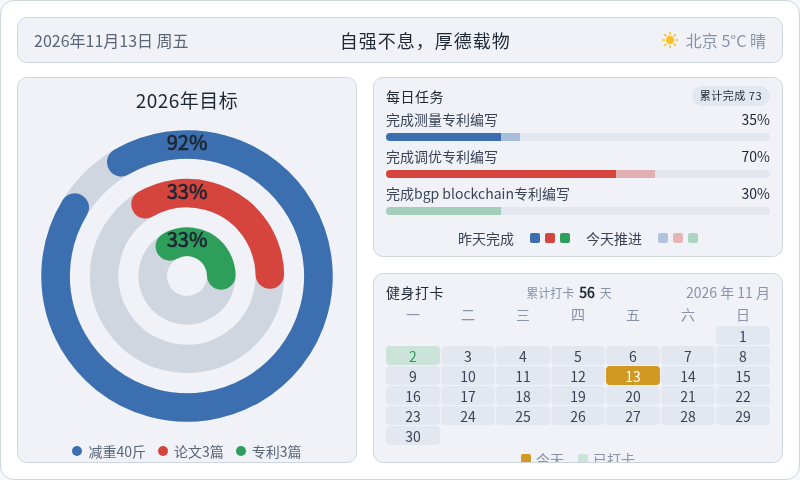
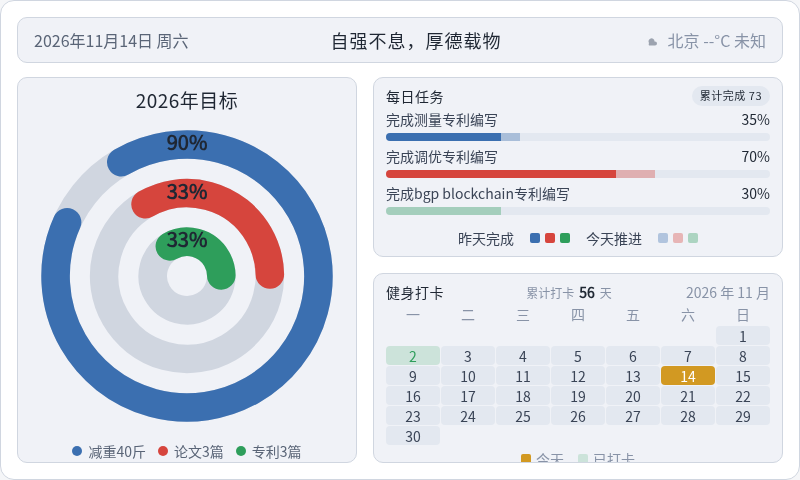
chore: 每日看板刷新 2026-11-14

diff --git a/output/dashboard/dashboard.html b/output/dashboard/dashboard.html
@@ -185,11 +185,11 @@
 <body>
   <div class="dash">
     <div class="topbar">
-      <div class="tb-date" id="tbDate">2026年11月13日 周五</div>
+      <div class="tb-date" id="tbDate">2026年11月14日 周六</div>
       <div class="tb-slogan">自强不息，厚德载物</div>
       <div class="tb-weather">
-        <svg width="16" height="16" viewBox="0 0 16 16" aria-hidden="true"><circle cx="8" cy="8" r="4" fill="#fbbf24"/><g stroke="#fbbf24" stroke-width="1.5" stroke-linecap="round"><line x1="8" y1="0.5" x2="8" y2="2.5"/><line x1="8" y1="13.5" x2="8" y2="15.5"/><line x1="0.5" y1="8" x2="2.5" y2="8"/><line x1="13.5" y1="8" x2="15.5" y2="8"/><line x1="2.5" y1="2.5" x2="3.9" y2="3.9"/><line x1="12.1" y1="12.1" x2="13.5" y2="13.5"/><line x1="13.5" y1="2.5" x2="12.1" y2="3.9"/><line x1="3.9" y1="12.1" x2="2.5" y2="13.5"/></g></svg>
-        <span>北京 5°C 晴</span>
+        <svg width="16" height="16" viewBox="0 0 16 16" aria-hidden="true"><path d="M5 11 a3 3 0 1 1 5.5 -1.5 h0.5 a2 2 0 1 1 0 4 H5 a2.5 2.5 0 0 1 0 -2.5z" fill="#9ca3af"/></svg>
+        <span>北京 --°C 未知</span>
       </div>
     </div>
     <div class="content">
@@ -200,9 +200,9 @@
           <svg viewBox="0 0 210 210" width="300" height="300" role="img" aria-label="三环进度仪表盘">
             <title>2026年目标三环进度</title>
             <g transform="rotate(-120 105 105)">
-              <circle cx="105" cy="105" r="92" fill="none" stroke="#d0d6e0" stroke-width="20"/><circle cx="105" cy="105" r="92" fill="none" stroke="#3b6fb0" stroke-width="20" stroke-linecap="round" stroke-dasharray="531.81 578.05"/><circle cx="105" cy="105" r="58" fill="none" stroke="#d0d6e0" stroke-width="20"/><circle cx="105" cy="105" r="58" fill="none" stroke="#d6453d" stroke-width="20" stroke-linecap="round" stroke-dasharray="120.26 364.42"/><circle cx="105" cy="105" r="24" fill="none" stroke="#d0d6e0" stroke-width="20"/><circle cx="105" cy="105" r="24" fill="none" stroke="#2e9e5b" stroke-width="20" stroke-linecap="round" stroke-dasharray="49.76 150.80"/>
+              <circle cx="105" cy="105" r="92" fill="none" stroke="#d0d6e0" stroke-width="20"/><circle cx="105" cy="105" r="92" fill="none" stroke="#3b6fb0" stroke-width="20" stroke-linecap="round" stroke-dasharray="520.25 578.05"/><circle cx="105" cy="105" r="58" fill="none" stroke="#d0d6e0" stroke-width="20"/><circle cx="105" cy="105" r="58" fill="none" stroke="#d6453d" stroke-width="20" stroke-linecap="round" stroke-dasharray="120.26 364.42"/><circle cx="105" cy="105" r="24" fill="none" stroke="#d0d6e0" stroke-width="20"/><circle cx="105" cy="105" r="24" fill="none" stroke="#2e9e5b" stroke-width="20" stroke-linecap="round" stroke-dasharray="49.76 150.80"/>
             </g>
-            <text x="105" y="13" text-anchor="middle" dominant-baseline="middle" fill="#1f2733" font-size="14" font-weight="700">92%</text><text x="105" y="47" text-anchor="middle" dominant-baseline="middle" fill="#1f2733" font-size="14" font-weight="700">33%</text><text x="105" y="81" text-anchor="middle" dominant-baseline="middle" fill="#1f2733" font-size="14" font-weight="700">33%</text>
+            <text x="105" y="13" text-anchor="middle" dominant-baseline="middle" fill="#1f2733" font-size="14" font-weight="700">90%</text><text x="105" y="47" text-anchor="middle" dominant-baseline="middle" fill="#1f2733" font-size="14" font-weight="700">33%</text><text x="105" y="81" text-anchor="middle" dominant-baseline="middle" fill="#1f2733" font-size="14" font-weight="700">33%</text>
           </svg>
         </div>
         <div class="legend"><div class="legend-row"><span class="dot" style="background:#3b6fb0"></span><span class="lg-name">减重40斤</span></div><div class="legend-row"><span class="dot" style="background:#d6453d"></span><span class="lg-name">论文3篇</span></div><div class="legend-row"><span class="dot" style="background:#2e9e5b"></span><span class="lg-name">专利3篇</span></div></div>
@@ -248,7 +248,7 @@
           <span class="cal-date">2026 年 11 月</span>
         </div>
         <div class="cal-grid wk"><span>一</span><span>二</span><span>三</span><span>四</span><span>五</span><span>六</span><span>日</span></div>
-        <div class="cal-grid"><span class="cell empty"></span><span class="cell empty"></span><span class="cell empty"></span><span class="cell empty"></span><span class="cell empty"></span><span class="cell empty"></span><span class="cell" style="background:#e3e8f0;color:#3a4456">1</span><span class="cell done" style="background:rgba(46,158,91,0.18);color:#2e9e5b">2</span><span class="cell" style="background:#e3e8f0;color:#3a4456">3</span><span class="cell" style="background:#e3e8f0;color:#3a4456">4</span><span class="cell" style="background:#e3e8f0;color:#3a4456">5</span><span class="cell" style="background:#e3e8f0;color:#3a4456">6</span><span class="cell" style="background:#e3e8f0;color:#3a4456">7</span><span class="cell" style="background:#e3e8f0;color:#3a4456">8</span><span class="cell" style="background:#e3e8f0;color:#3a4456">9</span><span class="cell" style="background:#e3e8f0;color:#3a4456">10</span><span class="cell" style="background:#e3e8f0;color:#3a4456">11</span><span class="cell" style="background:#e3e8f0;color:#3a4456">12</span><span class="cell today" style="background:#d29922;color:#ffffff">13</span><span class="cell" style="background:#e3e8f0;color:#3a4456">14</span><span class="cell" style="background:#e3e8f0;color:#3a4456">15</span><span class="cell" style="background:#e3e8f0;color:#3a4456">16</span><span class="cell" style="background:#e3e8f0;color:#3a4456">17</span><span class="cell" style="background:#e3e8f0;color:#3a4456">18</span><span class="cell" style="background:#e3e8f0;color:#3a4456">19</span><span class="cell" style="background:#e3e8f0;color:#3a4456">20</span><span class="cell" style="background:#e3e8f0;color:#3a4456">21</span><span class="cell" style="background:#e3e8f0;color:#3a4456">22</span><span class="cell" style="background:#e3e8f0;color:#3a4456">23</span><span class="cell" style="background:#e3e8f0;color:#3a4456">24</span><span class="cell" style="background:#e3e8f0;color:#3a4456">25</span><span class="cell" style="background:#e3e8f0;color:#3a4456">26</span><span class="cell" style="background:#e3e8f0;color:#3a4456">27</span><span class="cell" style="background:#e3e8f0;color:#3a4456">28</span><span class="cell" style="background:#e3e8f0;color:#3a4456">29</span><span class="cell" style="background:#e3e8f0;color:#3a4456">30</span></div>
+        <div class="cal-grid"><span class="cell empty"></span><span class="cell empty"></span><span class="cell empty"></span><span class="cell empty"></span><span class="cell empty"></span><span class="cell empty"></span><span class="cell" style="background:#e3e8f0;color:#3a4456">1</span><span class="cell done" style="background:rgba(46,158,91,0.18);color:#2e9e5b">2</span><span class="cell" style="background:#e3e8f0;color:#3a4456">3</span><span class="cell" style="background:#e3e8f0;color:#3a4456">4</span><span class="cell" style="background:#e3e8f0;color:#3a4456">5</span><span class="cell" style="background:#e3e8f0;color:#3a4456">6</span><span class="cell" style="background:#e3e8f0;color:#3a4456">7</span><span class="cell" style="background:#e3e8f0;color:#3a4456">8</span><span class="cell" style="background:#e3e8f0;color:#3a4456">9</span><span class="cell" style="background:#e3e8f0;color:#3a4456">10</span><span class="cell" style="background:#e3e8f0;color:#3a4456">11</span><span class="cell" style="background:#e3e8f0;color:#3a4456">12</span><span class="cell" style="background:#e3e8f0;color:#3a4456">13</span><span class="cell today" style="background:#d29922;color:#ffffff">14</span><span class="cell" style="background:#e3e8f0;color:#3a4456">15</span><span class="cell" style="background:#e3e8f0;color:#3a4456">16</span><span class="cell" style="background:#e3e8f0;color:#3a4456">17</span><span class="cell" style="background:#e3e8f0;color:#3a4456">18</span><span class="cell" style="background:#e3e8f0;color:#3a4456">19</span><span class="cell" style="background:#e3e8f0;color:#3a4456">20</span><span class="cell" style="background:#e3e8f0;color:#3a4456">21</span><span class="cell" style="background:#e3e8f0;color:#3a4456">22</span><span class="cell" style="background:#e3e8f0;color:#3a4456">23</span><span class="cell" style="background:#e3e8f0;color:#3a4456">24</span><span class="cell" style="background:#e3e8f0;color:#3a4456">25</span><span class="cell" style="background:#e3e8f0;color:#3a4456">26</span><span class="cell" style="background:#e3e8f0;color:#3a4456">27</span><span class="cell" style="background:#e3e8f0;color:#3a4456">28</span><span class="cell" style="background:#e3e8f0;color:#3a4456">29</span><span class="cell" style="background:#e3e8f0;color:#3a4456">30</span></div>
         <div class="cal-legend">
           <span style="color:#8893a7"><i class="sw" style="background:#d29922"></i>今天</span>
           <span style="color:#8893a7"><i class="sw" style="background:rgba(46,158,91,0.18)"></i>已打卡</span>
